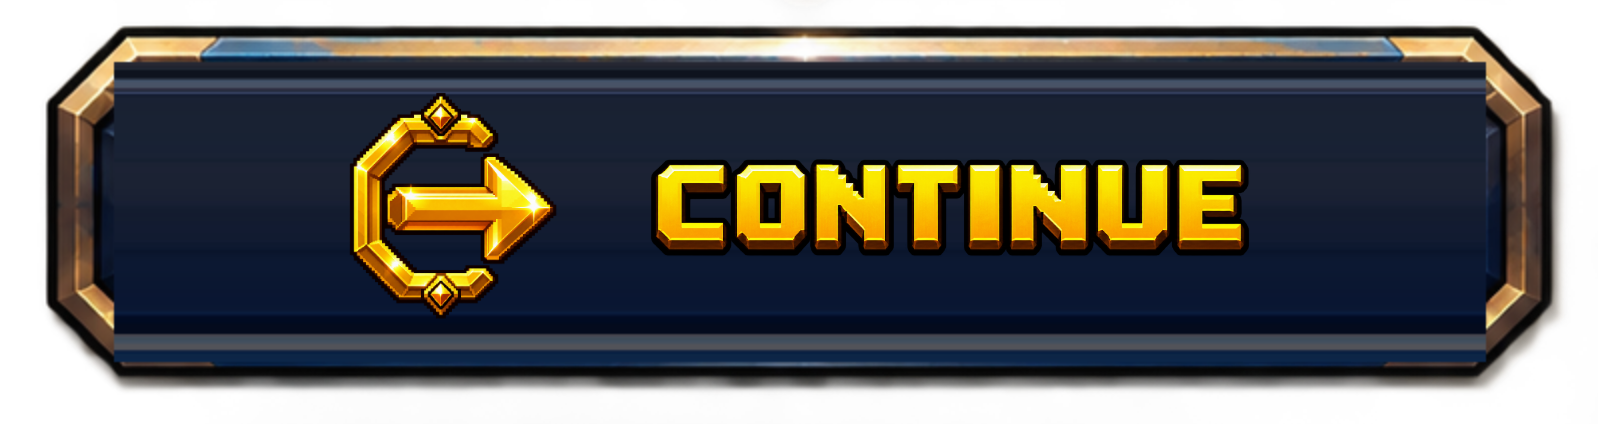
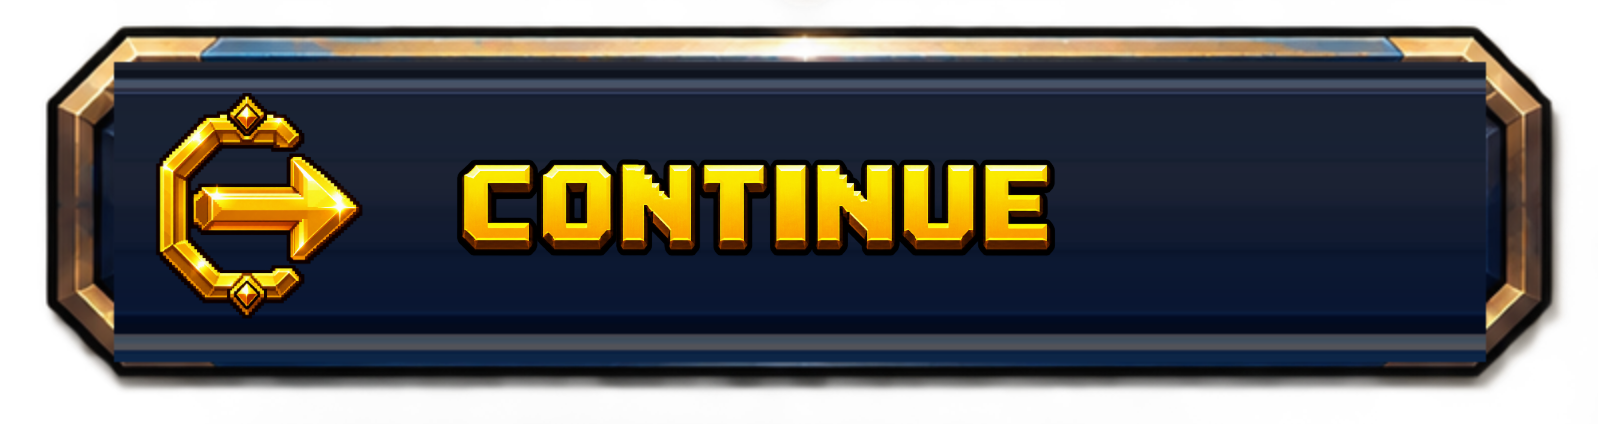
The Continue mark aligns left in its frame (v2.3.2159)
Owner: "align left for continue icon and label."  The emblem-and-wordmark
mark starts at the interior's left padding instead of centring; the frame,
sizes and everything else stand.  Recomposed by the same tool, ?v bumped
with the PNG per the standing cache note.

Changed region(s): [[0.092, 0.2146, 0.7972, 0.7358]]

diff --git a/src/styles/game.css b/src/styles/game.css
@@ -2487,7 +2487,7 @@ body:has(.bt-inspect) .bt-kb-chip{display:none}
 /* v2.3.2157 (owner: "Put it on same button frame"): the mark sets into the
    same framed plate Create wears — see compose-continue-plate.mjs.  Aspect
    returns to the frame's own, so the two plates match exactly. */
-.bt-login-btn--key{background-image:url('/ui/welcome/title/btn-continue.png?v=2.3.2157');aspect-ratio:799/212}
+.bt-login-btn--key{background-image:url('/ui/welcome/title/btn-continue.png?v=2.3.2159');aspect-ratio:799/212}
 .bt-login-btn--new{background-image:url('/ui/welcome/title/btn-create.png');aspect-ratio:799/212}
 .bt-login-btn:active{transform:translateY(1px) scale(.995)}
 .bt-login-btn:disabled{opacity:.55;cursor:default;animation:none}
